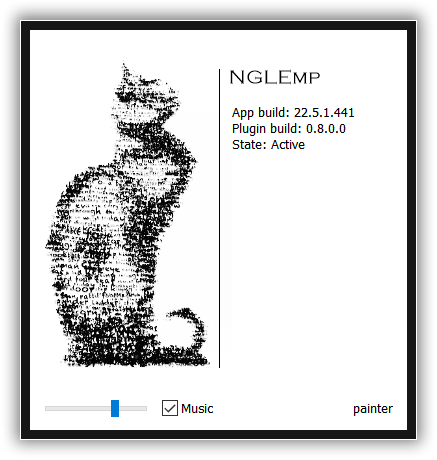
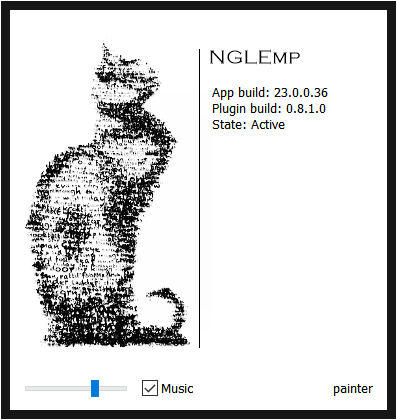
NGLEmp 0.8.1.0. Support for Adobe Photoshop `2022`

diff --git a/README.md b/README.md
@@ -1,6 +1,6 @@
 # NGLEmp
 
-Best Photoshop 2021 and Photoshop CC 2019-2020 plugin.
+Best Photoshop 2022, 2021 and Photoshop CC 2019-2020 plugin.
 
 ![](NGLEmp.png)
 
@@ -70,12 +70,17 @@ This means:
 
 ## Supported Products
 
+- Adobe Photoshop 2022 (`23.0`)
 - Adobe Photoshop 2021 (`22.0` — `22.5`)
 - Adobe Photoshop 2020 (`21.0`)
 - Adobe Photoshop CC 2019 (`20.0`)
 
 
 ## Tested Photoshop versions
+
+### Adobe Photoshop 2022
+
+- 2022 `23.0.0`
 
 ### Adobe Photoshop 2021
 
@@ -92,6 +97,12 @@ This means:
 ---
 
 ## NGLEmp Versions History
+
+### 0.8.1.0
+
+`30 October 2021`
+
+- [x] Support for Adobe Photoshop `2022` (`23.0`)
 
 ### 0.8.0.0
 
@@ -125,6 +136,7 @@ This means:
 ### 0.7.0.0
 
 `29 December 2020`
+
 - [x] Support for Adobe Photoshop `2021`
 - [x] Display plugin and host versions
 - [x] Patterns are updated for different versions to speedup initial launch
@@ -136,6 +148,7 @@ This means:
 ### 0.6.9.0
 
 `29 October 2019`
+
 - [x] Support for Adobe Photoshop CC `2020`
 
 ### 0.5.1.0
@@ -483,21 +496,21 @@ Get valid checksums [online at NGLEmp project page][integrity].
 
 BLAKE3 and SHA-1 checksums of main files (stored in `NGLEmp.b3` and `NGLEmp.sha1`):
 
-## NGLEmp 0.8.0.0
+## NGLEmp 0.8.1.0
 
-For Adobe Photoshop 2021, CC 2019-2020.
+For Adobe Photoshop 2022, 2021, CC 2019-2020.
 
 ### BLAKE3
 
 ```
-fbb0c5c02ca0e1e7ccc01ca38adaecf1fa9e2a6fad1ad7fe296b66c02400ce03  NGLEmp.8bx
+dea52b16ae93ce9ce71412ba7eacf90292c45a9dca1b033b0b9072ccea96d56c  NGLEmp.8bx
 8d53400efd802e0e1d54ba5cc0e8e8ed59da2c0f0499e2a5333abeee5b271868  painter.cfg
 ```
 
 ### SHA-1
 
 ```
-a036199801a9c4a1f6523dea63bb6e114bbfe10d *NGLEmp.8bx
+3eb7395e72a80df76ffc45ad846340d230225bb5 *NGLEmp.8bx
 664a96376fee1a2a22fa2cc7252776ce40eda2b3 *painter.cfg
 ```
 
@@ -543,7 +556,8 @@ painter.cfg: OK
 Enjoy!
 
 [cc.desktop.app]: https://www.adobe.com/creativecloud/desktop-app.html
-[nglemp.release]: https://mega.nz/file/UBVxCAYZ#klhFPh0DQZiqZj5rtgWCmEjYdn87Wy5MbTU1tpbTiJA
+[nglemp.release]: https://mega.nz/
+[nglemp.release.0.8.1.0]: https://mega.nz
 [nglemp.release.0.8.0.0]: https://mega.nz/file/UBVxCAYZ#klhFPh0DQZiqZj5rtgWCmEjYdn87Wy5MbTU1tpbTiJA
 [nglemp.release.0.7.2.0]: https://mega.nz/file/sJsiFDaI#2vyCACLKhP2dV0rh3RHfepFmcE1esrH35L0lI4UeXQQ
 [nglemp.release.0.7.0.0]: https://mega.nz/file/RJMEjDoY#PQp04TjIaSB4vmEVRtu0GJNvFiTpQA3UFL9Mre4XYoE

diff --git a/VERSIONS.md b/VERSIONS.md
@@ -1,10 +1,30 @@
 # NGLEmp Versions
 
+- NGLEmp 0.8.1.0
 - NGLEmp 0.8.0.0
 - NGLEmp 0.7.2.0
 - NGLEmp 0.7.0.0
 - NGLEmp 0.6.9.0
 - NGLEmp 0.5.1.0
+
+
+## NGLEmp 0.8.1.0
+
+For Adobe Photoshop 2022, 2021, CC 2019-2020.
+
+### BLAKE3
+
+```
+dea52b16ae93ce9ce71412ba7eacf90292c45a9dca1b033b0b9072ccea96d56c  NGLEmp.8bx
+8d53400efd802e0e1d54ba5cc0e8e8ed59da2c0f0499e2a5333abeee5b271868  painter.cfg
+```
+
+### SHA-1
+
+```
+3eb7395e72a80df76ffc45ad846340d230225bb5 *NGLEmp.8bx
+664a96376fee1a2a22fa2cc7252776ce40eda2b3 *painter.cfg
+```
 
 
 ## NGLEmp 0.8.0.0
